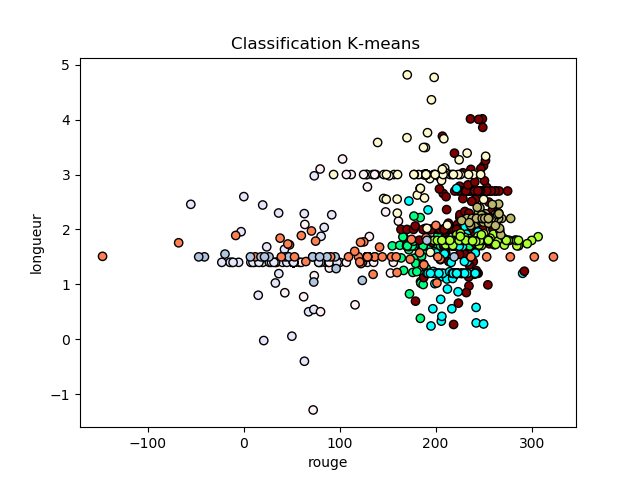
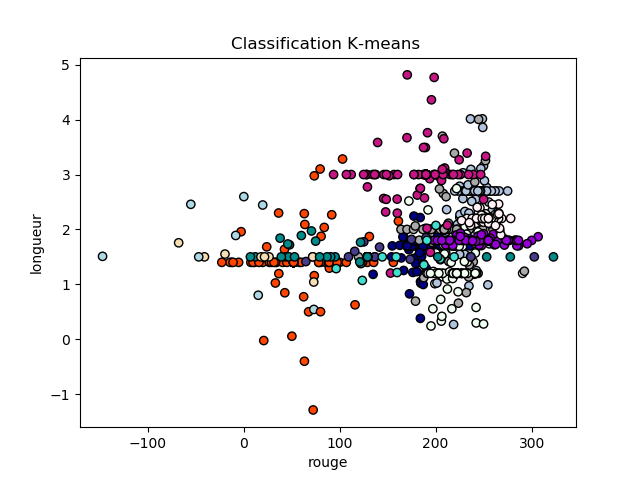
derniere version

diff --git a/rebirth3/src/interfaceGraph.py b/rebirth3/src/interfaceGraph.py
@@ -9,48 +9,73 @@ import gmm
 import contrasteur
 
 
-def graphic_clusters_fruits(gmm):
- #Visualisation des clusters formés par K-Means
+def graphic_clusters_fruits(gmm,colonne1,colonne2,point):
+ #Visualisation des clusters formés par gmm
  data, centers=gmm.result()
  colorlist= list(matplotlib.colors.cnames.keys())
  random.shuffle(colorlist)
  colorpoints=[]
- for point in data.itertuples():
-  colorpoints.append(colorlist[point[-1]])
- plt.scatter(data.r,data.fibres,c=colorpoints,edgecolor='k')
- plt.title('Classification K-means ')
- plt.xlabel("rouge")
- plt.ylabel("longueur")
- plt.savefig('rouge_longueur.png')
+ for p in data.itertuples():
+  colorpoints.append(colorlist[p[-1]])
+ plt.plot(point[0],point[1],"b:*",markersize=20)
+ plt.scatter(data[colonne1],data[colonne2],c=colorpoints,edgecolor='k')
+ plt.title('Classification gmm ')
+ plt.xlabel(colonne1)
+ plt.ylabel(colonne2)
+ plt.savefig('graphique.png')
+ plt.clf()
  
 class Frame_principal (Frame):
  
- def __init__(self,listelabels,mclusters,listeContrastes):
+ def __init__(self,listelabels,mclusters,listeContrastes,mgmm):
   Frame.__init__(self, borderwidth = 50, bg='red')
   self.mclusters=mclusters
   self.listeContrastes=listeContrastes
  
 #----#----#----#----#----#----#        l'input des valeurs           #----#----
+  self.listelabels=listelabels
   self.attributs=[]
   self.buttons=[]
+  self.mgmm=mgmm
+  
+  #pour preremplir dans le cas des fruits
+  valeur=False
+  if len(listelabels==8):
+   valeur=True
+   listeValeurs=np.array([40, 10, 222, 41, 22, 220, 94, 1.2])
+   
+  #liste des champs à remplir 
   for k in range(len(listelabels)):
    champ_label = Label(self, text=listelabels[k])
    champ_label.grid(row=k+1,column=1)
    var_texte = StringVar()
    ligne_texte = Entry(self, textvariable=var_texte, width=30)
-   self.attributs.append(ligne_texte)
+   if valeur:
+    ligne_texte.insert(0,listeValeurs[k])
+   self.attributs.append(var_texte)
    ligne_texte.grid(row=k+1,column=2)
-   """
-   button = Button(self, text="Get "+listelabels[k], command= lambda x=k: self.on_button(x))
-   self.buttons.append(button)
-   button.grid(row=3+2*k, column=1)"""
    
  
 #----#----#----#----#----#----#        l'image des clusters          #----#----#----#----
-  gmmTest=gmm.BDD("../data/fruitsModifiedAdjectives.csv")
-  gmmTest=gmm.GMM(gmmTest.resultFruit())
-  graphic_clusters_fruits(gmmTest)
-  image = Image.open("rouge_longueur.png") 
+
+
+  #le menu deroulant des affichages qu on peut choisir
+  self.var_choix = StringVar()
+  for k in range(len(self.listelabels)):
+   choix=Radiobutton(self, text=self.listelabels[k], variable=self.var_choix, value=self.listelabels[k]+str(k))
+   choix.grid(row=k+1, column=4)
+  self.var_choix.set(self.listelabels[0]+"0")
+  
+  
+   
+  self.var_choix1 = StringVar()
+  for k in range(len(self.listelabels)):
+   choix=Radiobutton(self, text=self.listelabels[k], variable=self.var_choix1, value=self.listelabels[k]+str(k))
+   choix.grid(row=k+1, column=5)
+  self.var_choix1.set(self.listelabels[1]+"1")
+   
+  graphic_clusters_fruits(self.mgmm,str(self.var_choix.get()[:-1]),str(self.var_choix1.get()[:-1]),np.array([40, 10]))
+  image = Image.open("graphique.png") 
   self.photo = ImageTk.PhotoImage(image)
   espace_image = Canvas(self, width = image.size[0], height = image.size[1], bg ='blue')
   espace_image.grid(row=1, column=0,rowspan=10)
@@ -59,8 +84,22 @@ class Frame_principal (Frame):
   button1=Button(self, text="resultat", command= self.fonctionTest)
   button1.grid(row=12, column=0)
 
- def on_button(self,k):
-  print(self.attributs[k].get())
+  #pour retracer le graphe
+  self.buttonGraph=Button(self, text="retracer graphe", command= self.tracerGraph)
+  self.buttonGraph.grid(row=0,column=0)
+  
+ def tracerGraph(self):
+  index=[int(self.var_choix.get()[-1]),int(self.var_choix1.get()[-1])]
+  point=np.array([float(self.attributs[k].get()) for k in index])
+  graphic_clusters_fruits(self.mgmm,str(self.var_choix.get()[:-1]), str(self.var_choix1.get()[:-1]), point)
+  image = Image.open("graphique.png") 
+  self.photo = ImageTk.PhotoImage(image)
+  espace_image = Canvas(self, width = image.size[0], height = image.size[1], bg ='blue')
+  espace_image.grid(row=1, column=0,rowspan=10)
+  espace_image.create_image(323, 242, image =self.photo)
+  
+ def on_button(self):
+  print(self.var_choix.get(),"coucou")
 
  def fonctionTest(self):
   data=np.array([float(attribut.get()) for attribut in self.attributs])
@@ -72,10 +111,10 @@ class Frame_principal (Frame):
   
   
 class Application(Frame):
- def __init__(self,listelabels,mclusters,listeContrastes):
+ def __init__(self,listelabels,mclusters,listeContrastes,mgmm):
  
   Frame.__init__(self)
-  partie_principale = Frame_principal(listelabels,mclusters,listeContrastes)
+  partie_principale =  Frame_principal(listelabels,mclusters,listeContrastes,mgmm)
   partie_principale.grid()
  
 

diff --git a/rebirth3/src/main.py b/rebirth3/src/main.py
@@ -16,7 +16,7 @@ def clusters_from_dataframe(df, ncluster):
     mgmm = gmm.GMM(df)
     clusters, centres = mgmm.result()
     mclusters = clusterisation.Clusterisation(clusters, centres)
-    return mclusters.result()
+    return mclusters.result(),mgmm
     
 
 def clusters_from_db(filename, ncluster):
@@ -33,7 +33,7 @@ def main(filename, ncluster, point):
     """
     this function does something
     """
-    mclusters = clusters_from_db(filename, ncluster)
+    mclusters,mgmm = clusters_from_db(filename, ncluster)
     
     colonnes=np.array(mclusters[0].getDataFrame().columns)
     if 'category' in colonnes:
@@ -45,7 +45,7 @@ def main(filename, ncluster, point):
     contrasteObject = contraste.Contraste(mclusters)
     listeContrastes = contrasteObject.result()
     #res=contrasteur.result(mclusters, listeContrastes, point) 
-    return mclusters,listeContrastes #res
+    return mclusters,listeContrastes,mgmm #res
 
     #return contrasteur.result(mclusters, point)
 
@@ -58,6 +58,7 @@ if __name__ == "__main__":
     if "fruit" in data.columns:
         del(data["fruit"])
     colonnes=np.array(data.columns)
-    mclusters,listeContrastes=main("../data/fruitsModifiedAdjectives.csv", 10, point)
-    appli = interfaceGraph.Application(colonnes,mclusters,listeContrastes) 
+    mclusters,listeContrastes, mgmm=main("../data/fruitsModifiedAdjectives.csv", 10, point)
+
+    appli = interfaceGraph.Application(colonnes,mclusters,listeContrastes,mgmm) 
     appli.mainloop()
